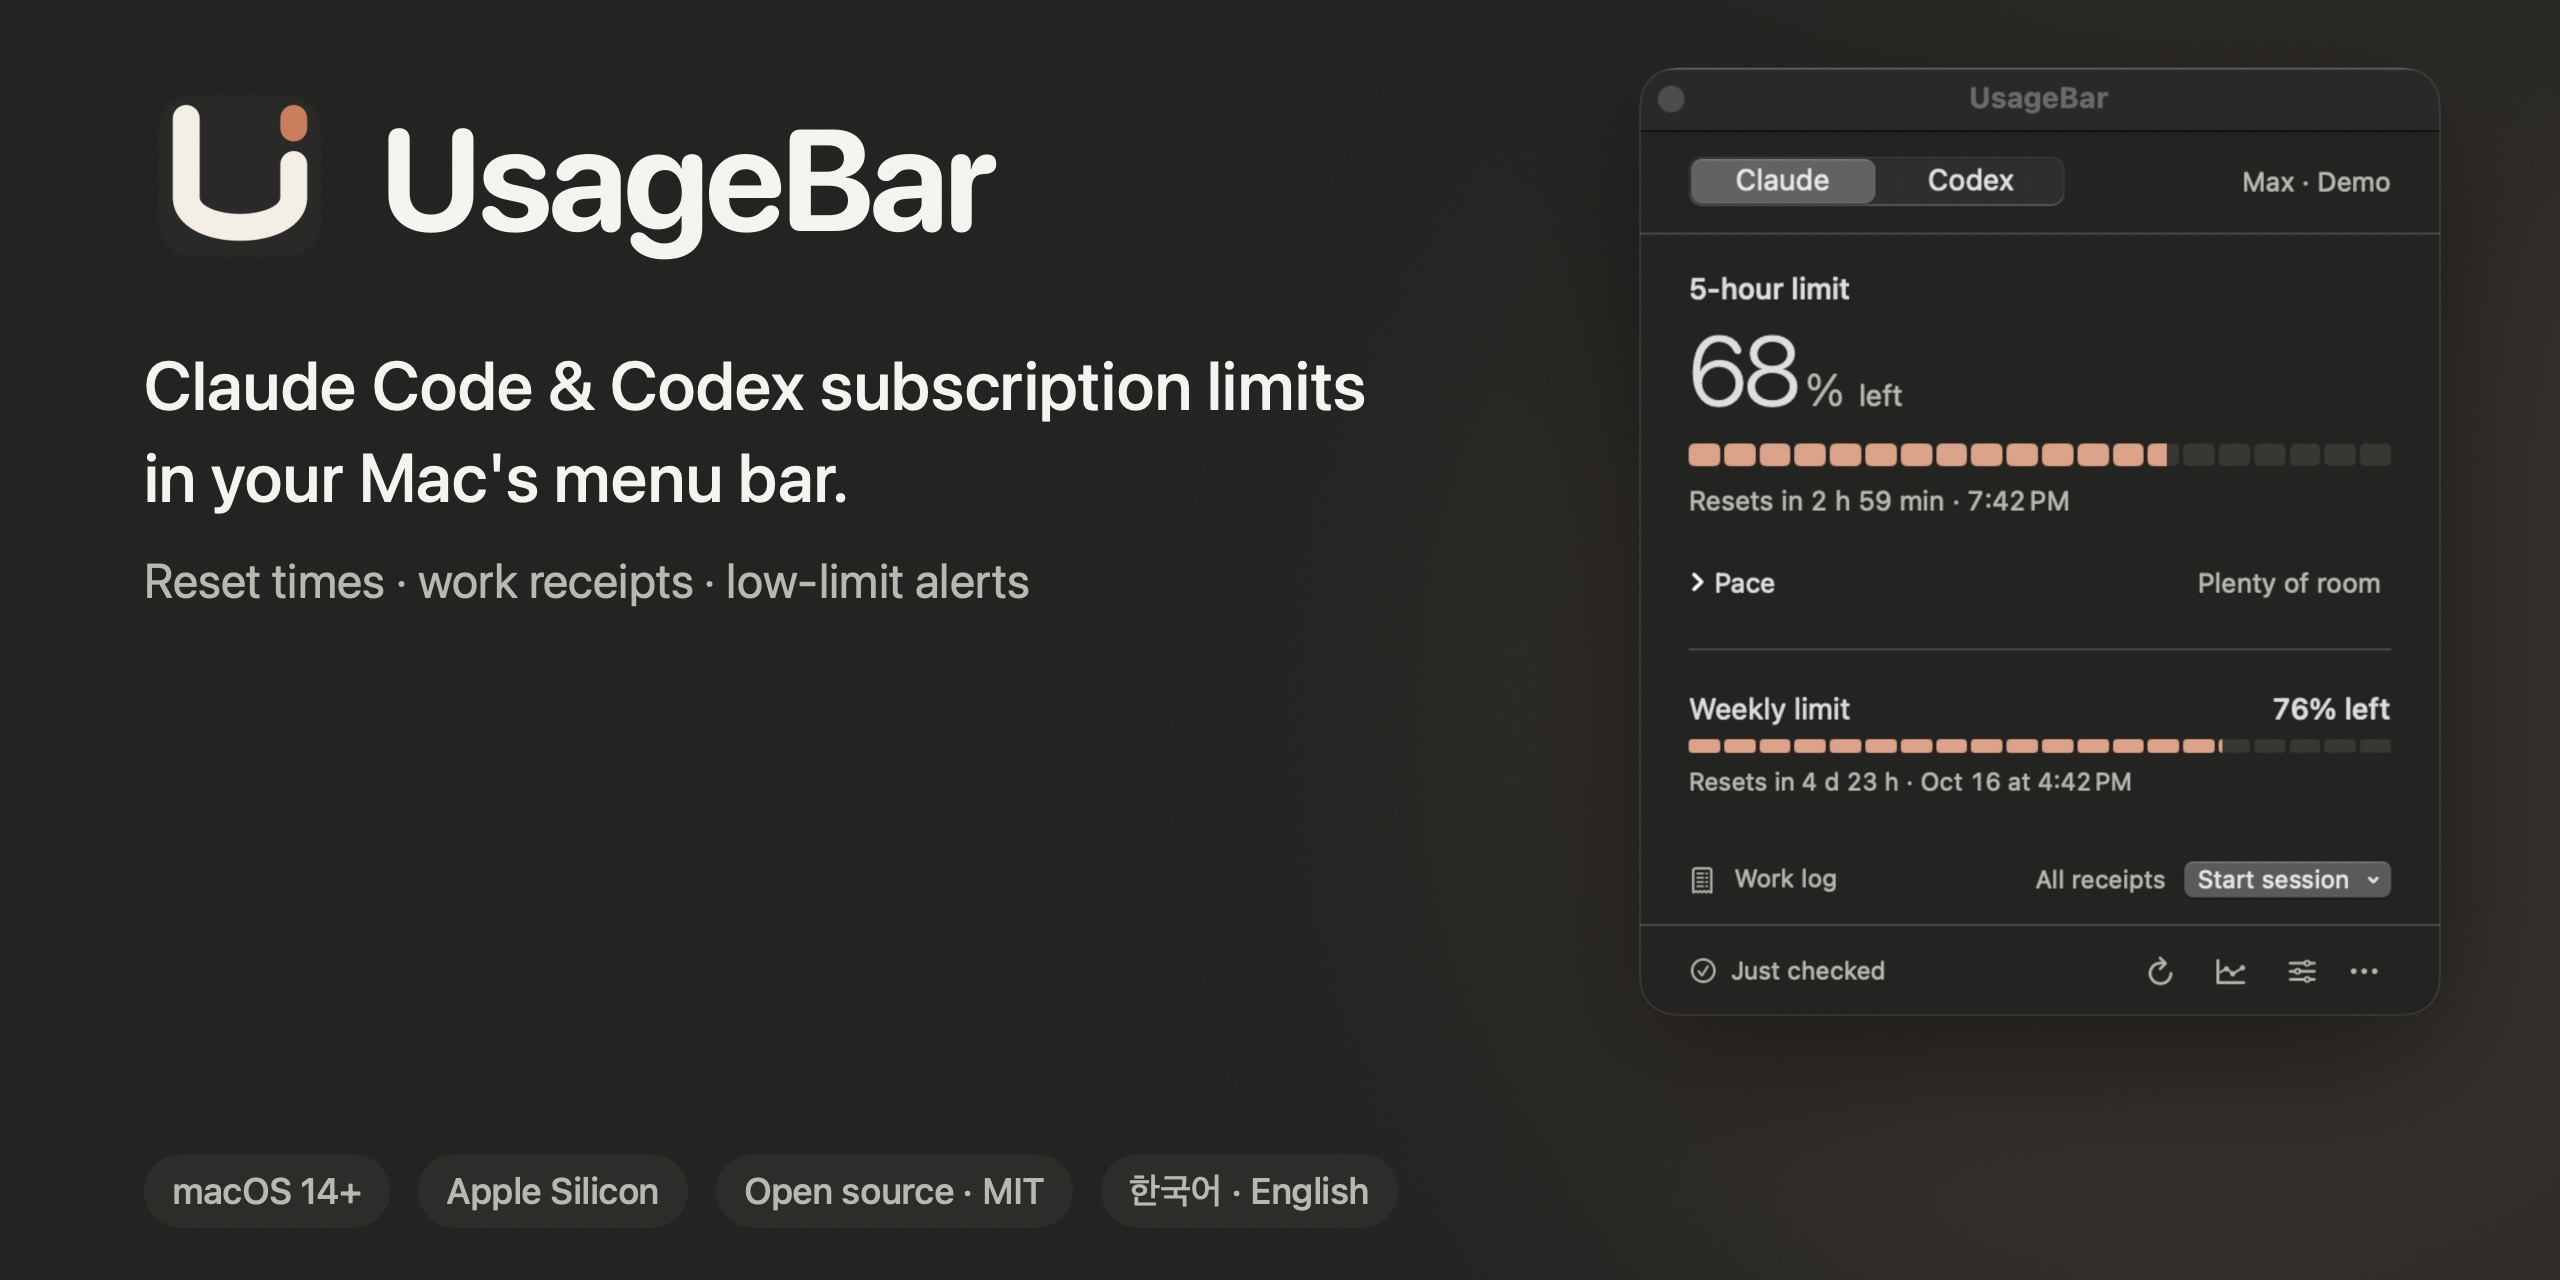
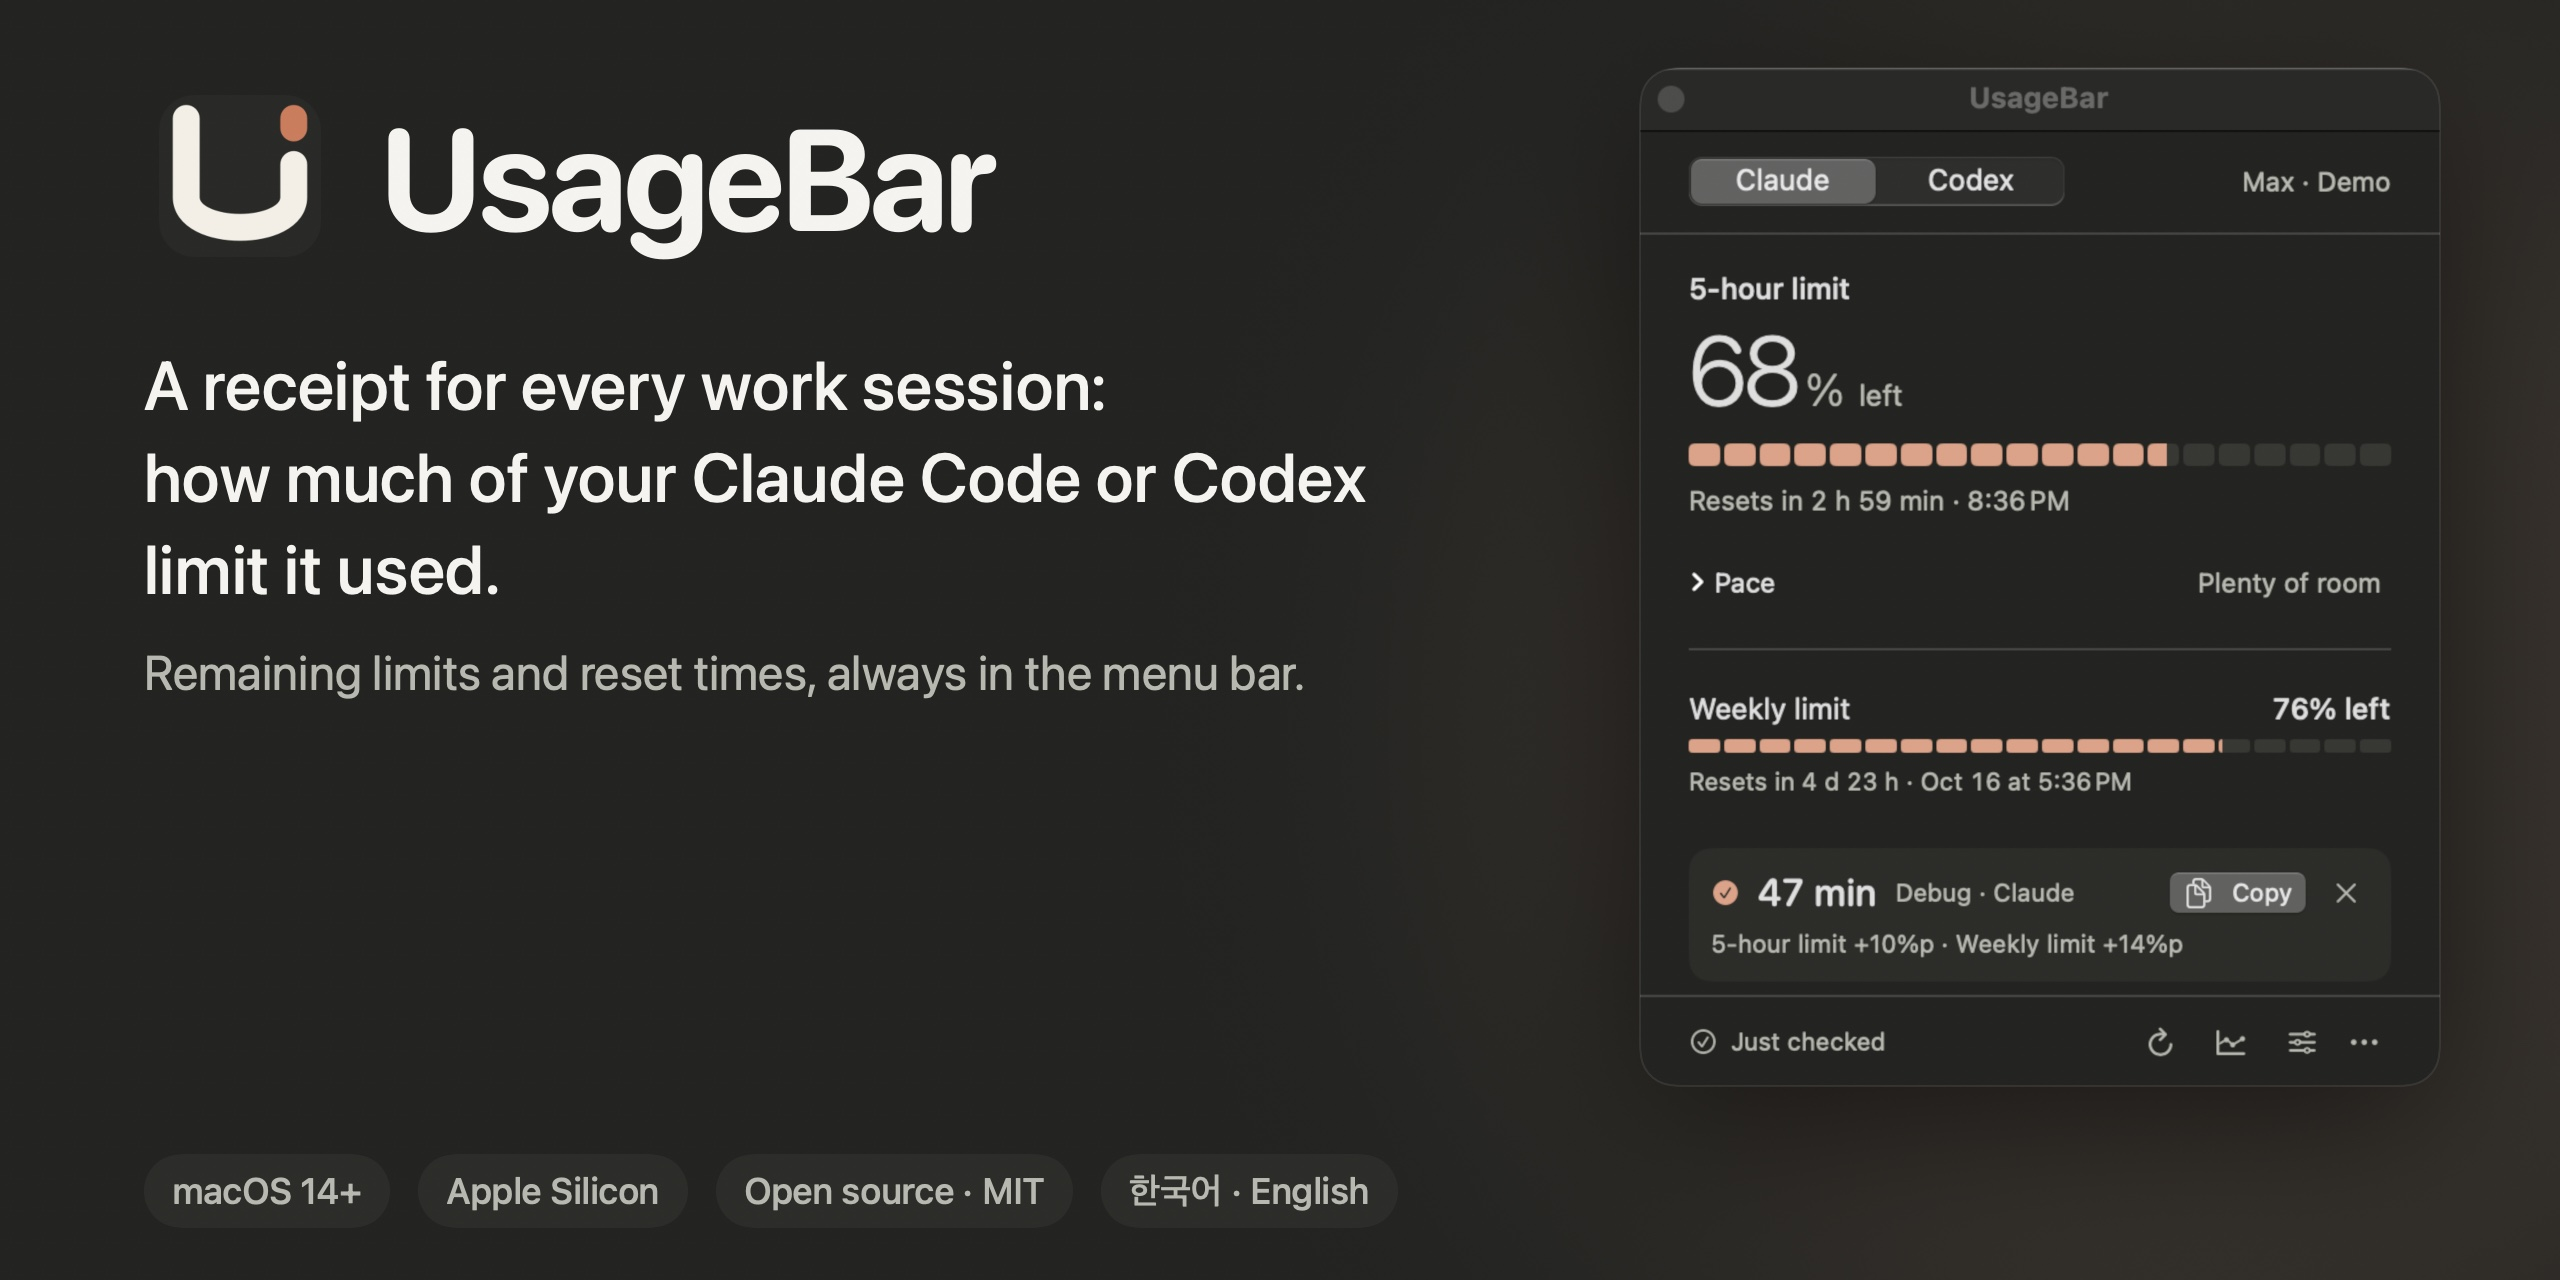
Lead with the work receipt in the README, GIFs, and social preview

diff --git a/Sources/UsageBar/WorkJournalController.swift b/Sources/UsageBar/WorkJournalController.swift
@@ -130,11 +130,11 @@ final class WorkJournalController: ObservableObject {
     /// Scripted demo for recordings: idle → active session → receipt, without any clicks.
     func runDemoFlow(fetch: @escaping (ProviderID) async throws -> ProviderSnapshot) {
         Task { @MainActor in
-            try? await Task.sleep(for: .seconds(1.5))
+            try? await Task.sleep(for: .seconds(1.0))
             if let active = Self.demoActiveSession() {
                 state = WorkJournalState(active: active, receipts: state.receipts)
             }
-            try? await Task.sleep(for: .seconds(3.5))
+            try? await Task.sleep(for: .seconds(2.5))
             await finish(fetch: fetch)
         }
     }

diff --git a/README.ko.md b/README.ko.md
@@ -5,8 +5,8 @@
 <h1 align="center">UsageBar</h1>
 
 <p align="center">
-  Claude Code와 Codex의 구독 한도를 메뉴 막대에서.<br />
-  작업 하나가 한도를 얼마나 썼는지 영수증으로 남깁니다.
+  작업 하나가 Claude Code·Codex 한도를 몇 % 썼는지, 영수증으로 남깁니다.<br />
+  남은 한도와 리셋 시각은 항상 메뉴 막대에.
 </p>
 
 <p align="center">
@@ -34,8 +34,8 @@
 
 ## 기능
 
+- **작업 영수증.** 작업 유형을 고르고 일한 뒤 종료를 누르면, 소요 시간과 한도별 변화(%p)가 영수증으로 남습니다. "이 리팩터링에 한도를 얼마나 썼나"에 답하는 메뉴바 앱은 이것뿐입니다.
 - **한눈에.** 5시간 한도를 큰 숫자와 20칸 게이지로, 정확한 리셋 시각과 함께 봅니다. 주간 한도는 아래에 이어지고, 메뉴 막대에는 잔여율이 항상 떠 있습니다.
-- **작업 영수증.** 작업 유형을 고르고 일한 뒤 종료를 누르면, 소요 시간과 한도별 변화(%p)가 영수증으로 남습니다.
 - **사용 기록.** 잔여 한도 추이와 Codex 일별 토큰을 차트로 보고 CSV로 내보냅니다.
 - **두 서비스.** Claude Code와 Codex를 나란히, 또는 쓰는 것만.
 - **새로 로그인할 것 없음.** 이 Mac에 있는 CLI 로그인 상태를 그대로 읽습니다. 비밀번호나 API 키를 묻지 않습니다.
@@ -43,12 +43,12 @@
 - **한국어와 영어.** 시스템 언어를 따릅니다.
 
 <p align="center">
-  <img src="docs/images/panel-codex-ko.jpg" width="31%" alt="Codex 패널: 한도 게이지, 초기화권 수와 만료, 최근 일별 토큰" />
   <img src="docs/images/receipts-ko.jpg" width="31%" alt="작업 영수증 창: 진행 중인 작업 카드와 완료된 영수증 목록" />
+  <img src="docs/images/panel-codex-ko.jpg" width="31%" alt="Codex 패널: 한도 게이지, 초기화권 수와 만료, 최근 일별 토큰" />
   <img src="docs/images/history-ko.jpg" width="31%" alt="사용 기록 창: 잔여 한도 추이 차트, 기간 선택, CSV 내보내기" />
 </p>
 
-<p align="center"><sub>Codex 패널 · 작업 영수증 · 사용 기록. 모든 스크린샷은 예시 데이터입니다.</sub></p>
+<p align="center"><sub>작업 영수증 · Codex 패널 · 사용 기록. 모든 스크린샷은 예시 데이터입니다.</sub></p>
 
 ## 설치
 

diff --git a/README.md b/README.md
@@ -5,8 +5,8 @@
 <h1 align="center">UsageBar</h1>
 
 <p align="center">
-  Claude Code and Codex subscription limits in your Mac's menu bar,<br />
-  with a receipt for what each work session cost you.
+  A receipt for every work session: how much of your Claude Code or Codex limit it used.<br />
+  Plus the remaining limits and reset times, always in your Mac's menu bar.
 </p>
 
 <p align="center">
@@ -34,8 +34,8 @@
 
 ## Features
 
+- **Work receipts.** Pick a session type, do your work, press Finish. The receipt tells you how long it took and how many percentage points of each limit it used. No other menu bar app answers "what did this refactor cost me?"
 - **At a glance.** The 5-hour limit as a big number and a 20-segment gauge, with the exact reset time. The weekly limit follows below. The menu bar shows the percentage all the time.
-- **Work receipts.** Pick a session type, do your work, press Finish. The receipt records the duration and how many percentage points each limit moved.
 - **History.** Remaining limits over time and Codex daily tokens as charts, exportable to CSV.
 - **Both services.** Claude Code and Codex side by side, or just the one you use.
 - **Nothing new to log in to.** UsageBar reads the CLI logins already on your Mac. It never asks for a password or an API key.
@@ -43,12 +43,12 @@
 - **English and Korean.** Follows your system language.
 
 <p align="center">
-  <img src="docs/images/panel-codex-en.jpg" width="31%" alt="Codex panel: limit gauges, reset credits with expiry, latest daily tokens" />
   <img src="docs/images/receipts-en.jpg" width="31%" alt="Receipts window: active session card and finished receipts" />
+  <img src="docs/images/panel-codex-en.jpg" width="31%" alt="Codex panel: limit gauges, reset credits with expiry, latest daily tokens" />
   <img src="docs/images/history-en.jpg" width="31%" alt="History window: remaining limit over time, period picker, CSV export" />
 </p>
 
-<p align="center"><sub>Codex panel · Receipts · History. All screenshots use demo data.</sub></p>
+<p align="center"><sub>Receipts · Codex panel · History. All screenshots use demo data.</sub></p>
 
 ## Install
 
